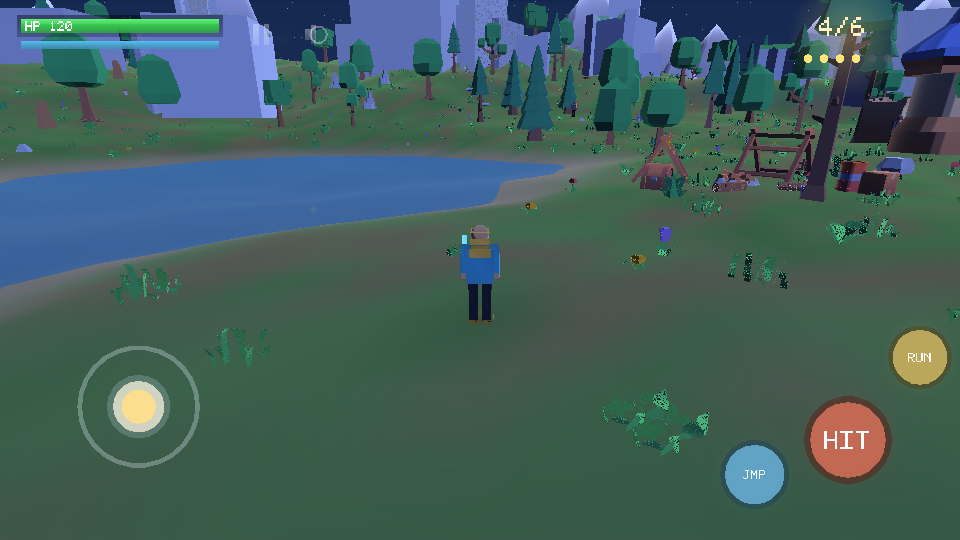
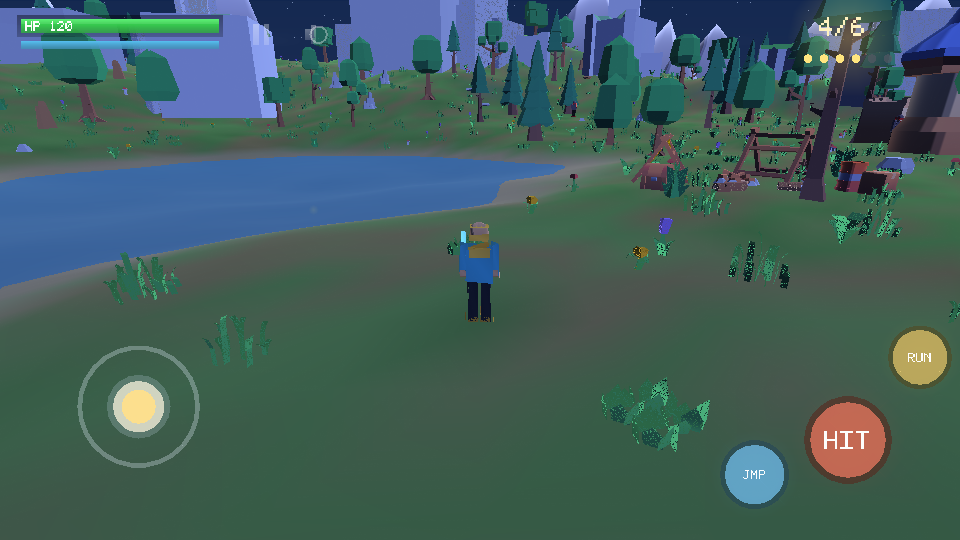
Wind-swayed ground cover: bake a height-weighted wave attribute per prop

diff --git a/app/src/main/java/com/laststar/game/gl/ModelLibrary.java b/app/src/main/java/com/laststar/game/gl/ModelLibrary.java
@@ -114,7 +114,7 @@ public final class ModelLibrary {
         // The software rasteriser behind the docs screenshots consumes plain
         // arrays. The device never calls these, so the copies are lazy.
 
-        private float[] posArray, nrmArray, colArray;
+        private float[] posArray, nrmArray, colArray, wavArray;
         private short[] idxArray;
 
         public float[] positionArray() {
@@ -136,6 +136,19 @@ public final class ModelLibrary {
                 colArray = floats(mesh.colors, mesh.vertexCount * 4);
             }
             return colArray;
+        }
+
+        public float[] waveArray() {
+            if (mesh.waves == null) {
+                return null;
+            }
+            if (wavArray == null) {
+                wavArray = new float[mesh.vertexCount];
+                for (int i = 0; i < wavArray.length; i++) {
+                    wavArray[i] = mesh.waves.get(i);
+                }
+            }
+            return wavArray;
         }
 
         public short[] indexArray() {
@@ -276,6 +289,10 @@ public final class ModelLibrary {
             float maxY = buf.getFloat();
             float maxZ = buf.getFloat();
 
+            // The bake interleaves nine floats per vertex: position, normal,
+            // then an RGB colour. Read them in one pass, then derive the wind
+            // phase from the heights that pass just measured -- the root of a
+            // blade or a trunk stays planted while the tip bends.
             FloatBuffer positions = direct(vertexCount * 12).asFloatBuffer();
             FloatBuffer normals = direct(vertexCount * 12).asFloatBuffer();
             FloatBuffer colors = direct(vertexCount * 16).asFloatBuffer();
@@ -288,13 +305,25 @@ public final class ModelLibrary {
             normals.position(0);
             colors.position(0);
 
+            FloatBuffer waves = direct(vertexCount * 4).asFloatBuffer();
+            float span = Math.max(0.0001f, maxY - minY);
+            float topWeight = role == GRASS || role == FLOWER || role == PLANT
+                    || role == MUSHROOM ? 1f : (role == TREE ? 0.22f : 0f);
+            for (int v = 0; v < vertexCount; v++) {
+                float h = (positions.get(v * 3 + 1) - minY) / span;
+                // Only the upper part of the mesh moves, and it moves together:
+                // one phase per model keeps the tuft coherent.
+                waves.put(topWeight * h * h);
+            }
+            waves.position(0);
+
             ShortBuffer indices = direct(indexCount * 2).asShortBuffer();
             for (int v = 0; v < indexCount; v++) {
                 indices.put(buf.getShort());
             }
             indices.position(0);
 
-            Mesh mesh = Mesh.fromBuffers(positions, normals, colors, null,
+            Mesh mesh = Mesh.fromBuffers(positions, normals, colors, waves,
                     indices, vertexCount, indexCount);
             models[i] = new Model(i, name, role, targetSize,
                     minX, minY, minZ, maxX, maxY, maxZ, mesh);

diff --git a/app/src/main/java/com/laststar/game/gl/Geometry.java b/app/src/main/java/com/laststar/game/gl/Geometry.java
@@ -236,6 +236,56 @@ public final class Geometry {
         return b.build();
     }
 
+    // ------------------------------------------------------------ grass tufts
+
+    /**
+     * Wind-pushed grass and flower tufts, generated as a handful of crossed
+     * blades.
+     *
+     * <p>Anime fields read as movement as much as colour: the sway is what
+     * stops a painted meadow looking like green carpet. Each blade is two
+     * triangles with the wave weight baked into the vertex attribute, so the
+     * vertex shader can bend the tip while the root stays planted -- no bones,
+     * no skinning, no per-frame CPU work.</p>
+     *
+     * @param blades  number of crossed blades per tuft
+     * @param height  blade height in metres
+     * @param spread  horizontal radius of the tuft
+     * @param r,g,b   base colour at the root
+     * @param tipR,tipG,tipB colour at the tip (anime grass always lightens)
+     */
+    public static MeshData tuft(int blades, float height, float spread,
+                                float r, float g, float b,
+                                float tipR, float tipG, float tipB, long seed) {
+        MeshData.Builder bb = new MeshData.Builder();
+        java.util.Random rnd = new java.util.Random(seed);
+        for (int i = 0; i < blades; i++) {
+            double ang = (i / (double) blades) * Math.PI + rnd.nextDouble() * 0.5;
+            float cx = (float) Math.cos(ang);
+            float cz = (float) Math.sin(ang);
+            float px = -cz;
+            float pz = cx;
+            float w = spread * (0.16f + rnd.nextFloat() * 0.10f);
+            float h = height * (0.72f + rnd.nextFloat() * 0.55f);
+            float ox = (rnd.nextFloat() - 0.5f) * spread * 0.45f;
+            float oz = (rnd.nextFloat() - 0.5f) * spread * 0.45f;
+            // A gentle lean, so the tuft is not perfectly vertical.
+            float leanX = (rnd.nextFloat() - 0.5f) * height * 0.28f;
+            float leanZ = (rnd.nextFloat() - 0.5f) * height * 0.28f;
+            float phase = rnd.nextFloat() * 6.283f;
+            // Slight outward bow, which reads as volume from any angle.
+            float bow = spread * 0.30f;
+
+            int base = bb.vertexCount();
+            bb.addVertex(ox - px * w, 0f, oz - pz * w, px, 0.35f, pz, r, g, b, 1f, 0f);
+            bb.addVertex(ox + px * w, 0f, oz + pz * w, -px, 0.35f, -pz, r, g, b, 1f, 0f);
+            bb.addVertex(ox + cx * bow + leanX, h, oz + cz * bow + leanZ,
+                    cx, 0.8f, cz, tipR, tipG, tipB, 1f, phase);
+            bb.addTriangle(base, base + 1, base + 2);
+        }
+        return bb.build();
+    }
+
     // ----------------------------------------------------------------- water
 
     /** Flat plane subdivided so the vertex shader can ripple it. */

diff --git a/desktop/Raster.java b/desktop/Raster.java
@@ -70,6 +70,14 @@ public final class Raster {
     }
 
     private float sunR = 1f;
+    private float waveTime = 0f;
+    private float waveAmp = 0f;
+
+    /** Enables the wind bend used by grass, flowers and foliage. */
+    public void setWind(float time, float amp) {
+        waveTime = time;
+        waveAmp = amp;
+    }
     private float sunG = 0.9f;
     private float sunB = 0.75f;
 
@@ -271,12 +279,30 @@ public final class Raster {
         }
     }
 
+    /** Per-vertex wave phase, set alongside the mesh buffers. */
+    private float[] wv = new float[0];
+
+    /** Supplies the per-vertex wave phase used by {@link #setWind}. */
+    public void setWaveAttribute(float[] wave) {
+        wv = wave == null ? new float[0] : wave;
+    }
+
     private V vertex(Mat4 m, float[] pos, float[] nrm, float[] col, int i,
                      float alpha, float emissive, float[] tint, float tintAmount) {
         V v = new V();
         float x = pos[i * 3];
         float y = pos[i * 3 + 1];
         float z = pos[i * 3 + 2];
+        if (waveAmp > 0f) {
+            // Mirrors the vertex shader's wave term. The attribute is the
+            // phase, carried per vertex by Geometry.tuft and the model baker.
+            float phase = wv[i < wv.length ? i : 0];
+            if (phase != 0f) {
+                y += (float) (Math.sin(waveTime * 1.35f + phase)
+                        + Math.sin(waveTime * 0.71f + phase * 1.7f) * 0.55f) * waveAmp;
+                x += (float) Math.cos(waveTime * 0.9f + phase * 0.8f) * waveAmp * 0.35f;
+            }
+        }
         v.x = m.m[0] * x + m.m[4] * y + m.m[8] * z + m.m[12];
         v.y = m.m[1] * x + m.m[5] * y + m.m[9] * z + m.m[13];
         v.z = m.m[2] * x + m.m[6] * y + m.m[10] * z + m.m[14];

diff --git a/app/src/main/java/com/laststar/game/gl/SceneRenderer.java b/app/src/main/java/com/laststar/game/gl/SceneRenderer.java
@@ -288,6 +288,29 @@ public final class SceneRenderer {
             }
         }
         sceneProgram.setTintAmount(0f);
+        sceneProgram.setFloat("uWaveAmp", 0f);
+    }
+
+    /**
+     * Wind amplitude per model, in metres. Written to {@code uWaveAmp}, which
+     * bends the mesh tip in the vertex shader; anything without grass or leaves
+     * gets zero so rocks and buildings stay rigid.
+     */
+    private float swayFor(int modelIndex) {
+        switch (models.get(modelIndex).role) {
+            case ModelLibrary.GRASS:
+                return 0.075f;
+            case ModelLibrary.FLOWER:
+                return 0.060f;
+            case ModelLibrary.PLANT:
+                return 0.045f;
+            case ModelLibrary.MUSHROOM:
+                return 0.022f;
+            case ModelLibrary.TREE:
+                return 0.018f;
+            default:
+                return 0f;
+        }
     }
 
     /** Per-role draw distance in metres, relative to the camera. */
@@ -334,6 +357,9 @@ public final class SceneRenderer {
         } else {
             sceneProgram.setTintAmount(0f);
         }
+        // Ground cover sways; timber and stone do not. This is the whole
+        // difference between a painted meadow and a flat green carpet.
+        sceneProgram.setFloat("uWaveAmp", swayFor(in.model));
         drawMesh(propMeshes[in.model]);
     }
 

diff --git a/desktop/ScreenshotTool.java b/desktop/ScreenshotTool.java
@@ -249,6 +249,9 @@ public final class ScreenshotTool {
         raster.drawMesh(range.positions, range.normals, range.colors, range.indices,
                 rangMat, 1f, 0.06f, null, 0f);
 
+        // Wind, matching the amplitudes SceneRenderer.swayFor uses.
+        raster.setWind(world.worldTime + extraTime, 0.055f);
+
         // Set dressing: exactly the plan the renderer uses.
         if (MODELS != null) {
             PropPlanner props = new PropPlanner(MODELS, world.terrain, 20261105L);
@@ -361,6 +364,9 @@ public final class ScreenshotTool {
         }
         float[] tint = in.tintAmount > 0f
                 ? new float[]{in.tintR, in.tintG, in.tintB} : null;
+        // Feed the wind phase so foliage bends exactly as the vertex shader
+        // bends it on the device.
+        raster.setWaveAttribute(m.waveArray());
         raster.drawMesh(m.positionArray(), m.normalArray(), m.colorArray(), m.indexArray(),
                 model, 1f, 0f, tint, in.tintAmount);
     }
